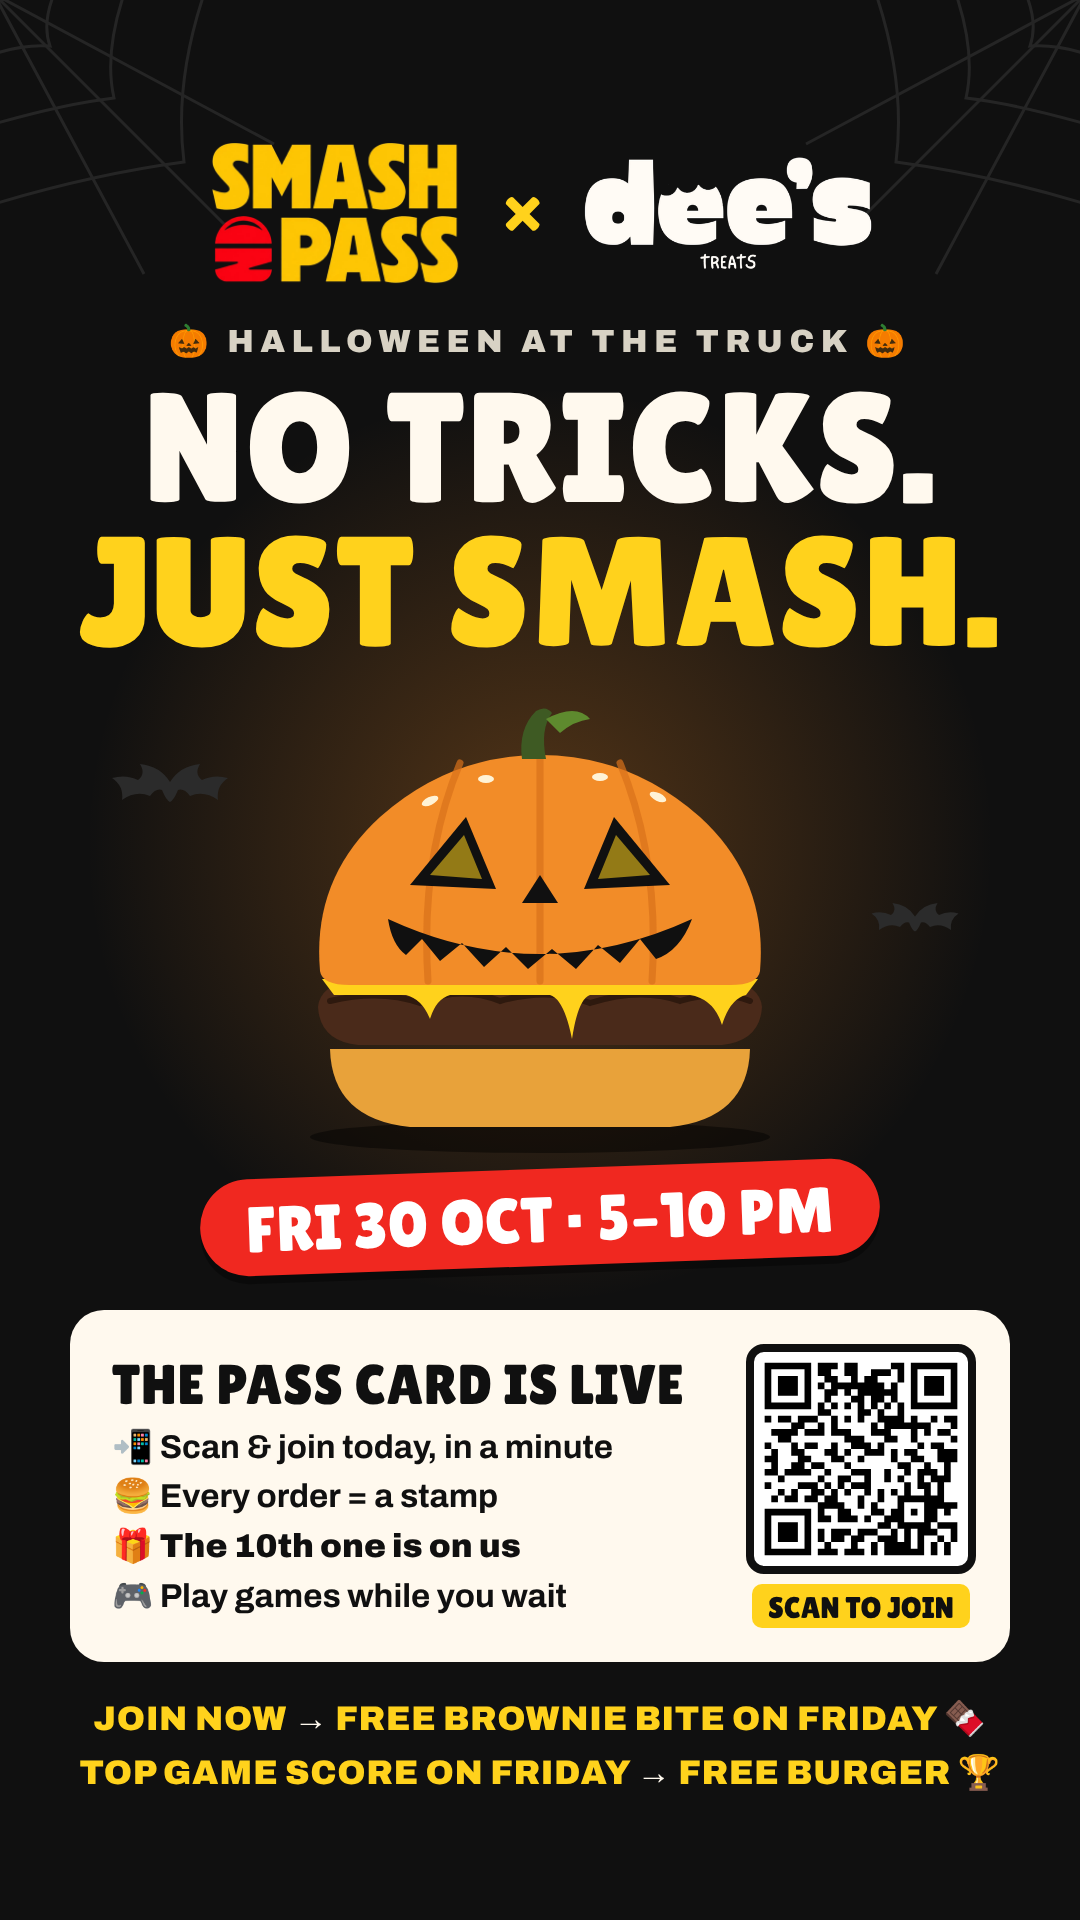
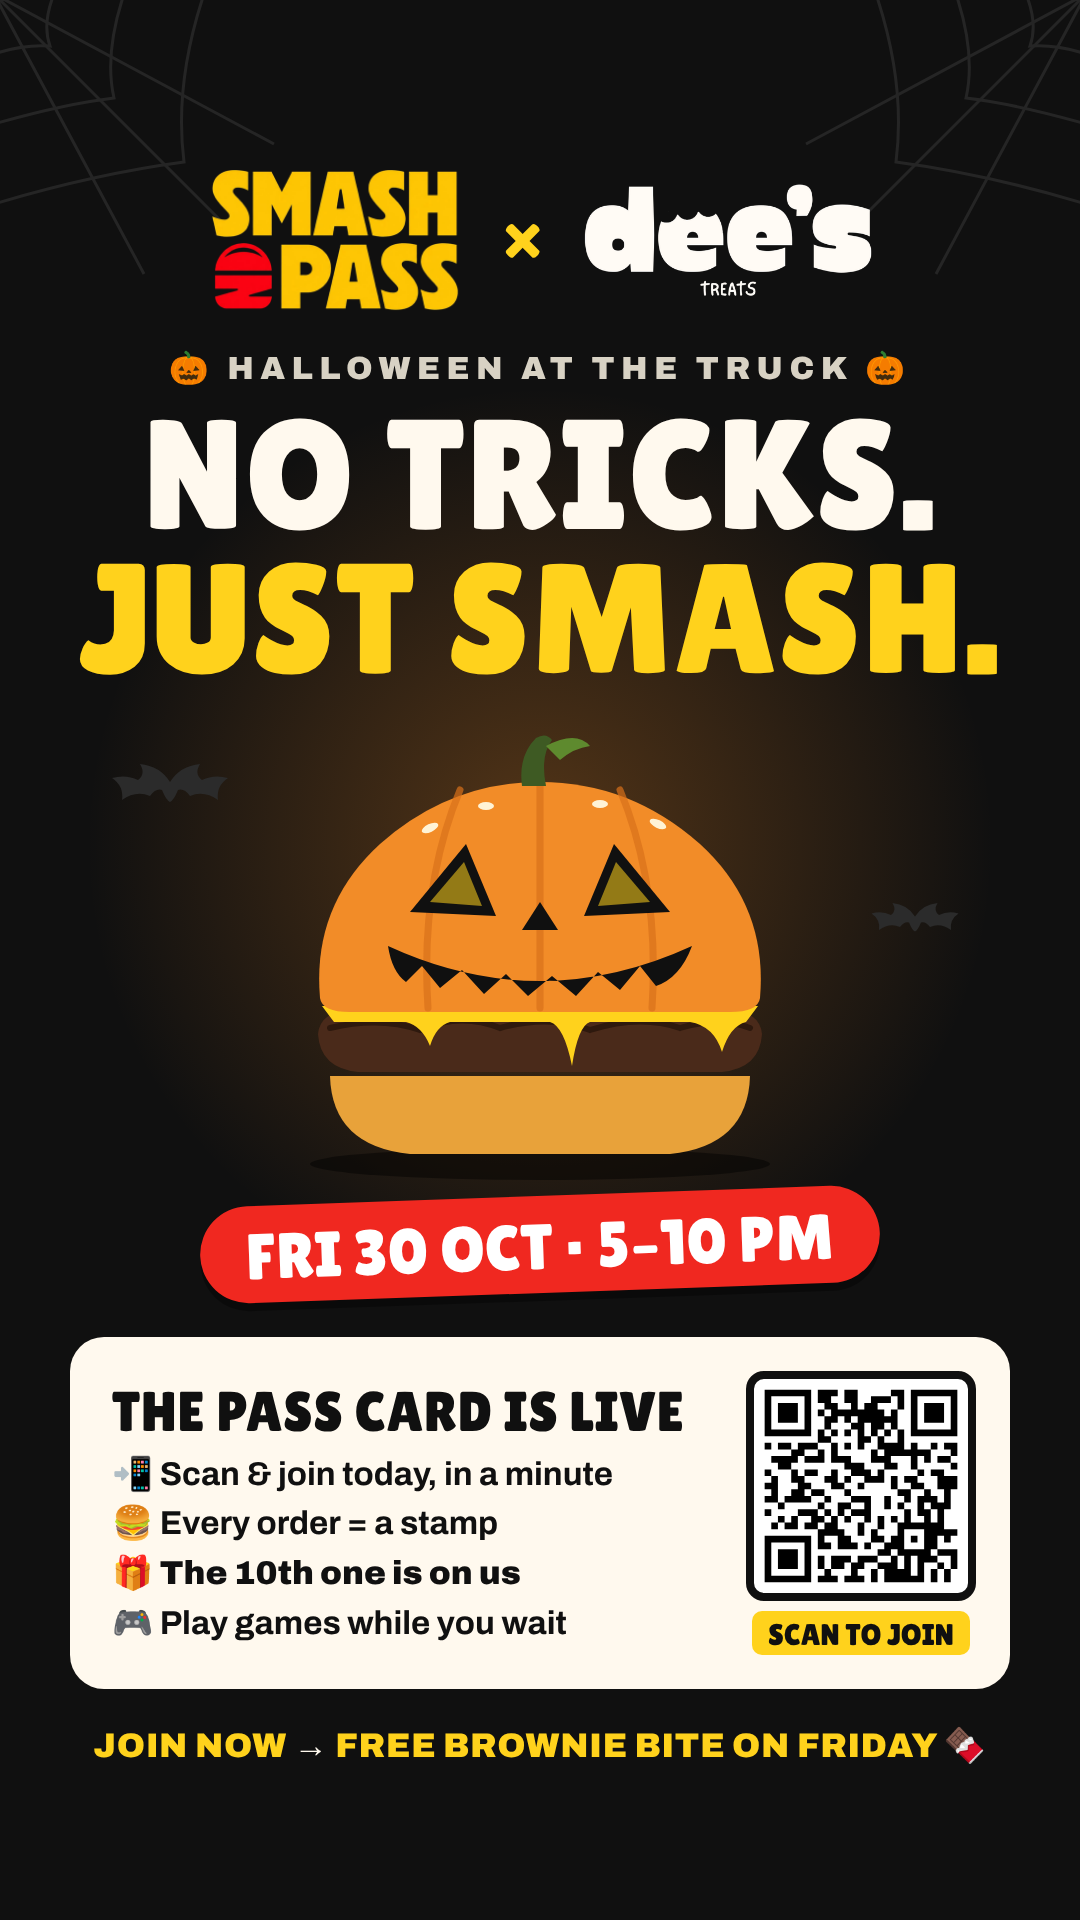
Flyers: no free-burger prize on the Halloween flyer
Claude-Session: https://claude.ai/code/session_013jqCNqdF81wxGwRqXjaL6W

Changed region(s): [[0.0611, 0.0625, 0.9472, 0.9375]]

diff --git a/flyers/smash-halloween-2026/flyer.html b/flyers/smash-halloween-2026/flyer.html
@@ -104,7 +104,6 @@ h1 .y{color:var(--yel)}
   </div>
   <div class="extra">
     <div>JOIN NOW <i>→</i> FREE BROWNIE BITE ON FRIDAY 🍫</div>
-    <div>TOP GAME SCORE ON FRIDAY <i>→</i> FREE BURGER 🏆</div>
   </div>
 </div>
 
@@ -130,7 +129,6 @@ h1 .y{color:var(--yel)}
   </div>
   <div class="extra">
     <div>JOIN NOW <i>→</i> FREE BROWNIE BITE ON FRIDAY 🍫</div>
-    <div>TOP GAME SCORE ON FRIDAY <i>→</i> FREE BURGER 🏆</div>
   </div>
 </div>
 
